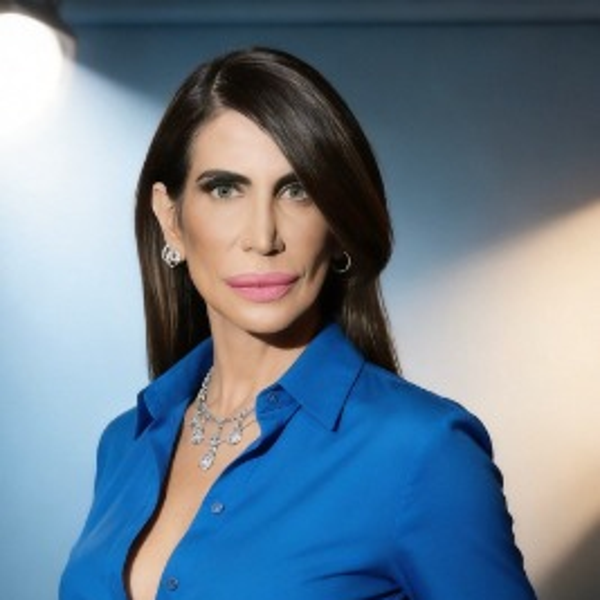
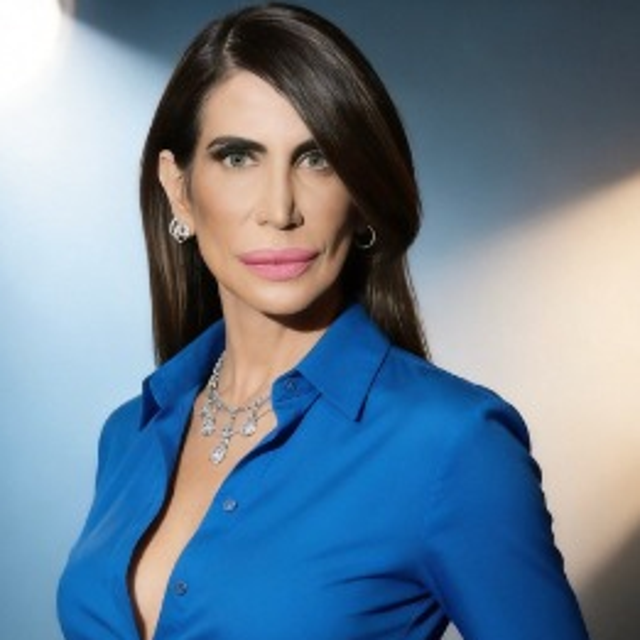
Fix team photo cropping (consistent, face-centered); add Max's skills & soccer, keep Analyst

diff --git a/about.html b/about.html
@@ -39,6 +39,9 @@
     .member-title { font-size: 14px; color: rgba(255,255,255,0.5); margin-bottom: 14px; }
     .member-bio { font-size: 15px; line-height: 1.7; color: rgba(255,255,255,0.72); }
     .member-tag { display: inline-block; margin-top: 12px; font-size: 12px; color: #00e5a0; background: rgba(0,229,160,0.1); border: 1px solid rgba(0,229,160,0.25); border-radius: 100px; padding: 5px 14px; }
+    .member-skills { display: flex; flex-wrap: wrap; gap: 8px; margin-top: 14px; }
+    .skill { font-size: 12px; color: rgba(255,255,255,0.7); background: rgba(255,255,255,0.06); border: 1px solid rgba(255,255,255,0.12); border-radius: 100px; padding: 5px 13px; }
+    @media (max-width: 640px) { .member-skills { justify-content: center; } }
 
     footer { padding: 40px; border-top: 1px solid rgba(255,255,255,0.07); text-align: center; font-size: 12px; color: rgba(255,255,255,0.25); margin-top: 30px; }
     footer a { color: rgba(255,255,255,0.3); text-decoration: none; }
@@ -119,8 +122,15 @@
     <div class="member-body">
       <div class="member-role">Analyst</div>
       <div class="member-name">Max Kothari</div>
-      <div class="member-title">Student at Phillips Exeter Academy</div>
-      <p class="member-bio">Student at Phillips Exeter Academy, supporting Team Thrive on analysis and strategy.</p>
+      <div class="member-title">Student at Phillips Exeter Academy · Soccer Player</div>
+      <p class="member-bio">Student at Phillips Exeter Academy and a competitive soccer player. At Team Thrive, Max leads market and competitive research and turns data into insight that helps shape product strategy and growth.</p>
+      <div class="member-skills">
+        <span class="skill">Market Research</span>
+        <span class="skill">Competitive Analysis</span>
+        <span class="skill">Data Analysis</span>
+        <span class="skill">Product Strategy</span>
+        <span class="skill">Soccer Player</span>
+      </div>
     </div>
   </div>
 
